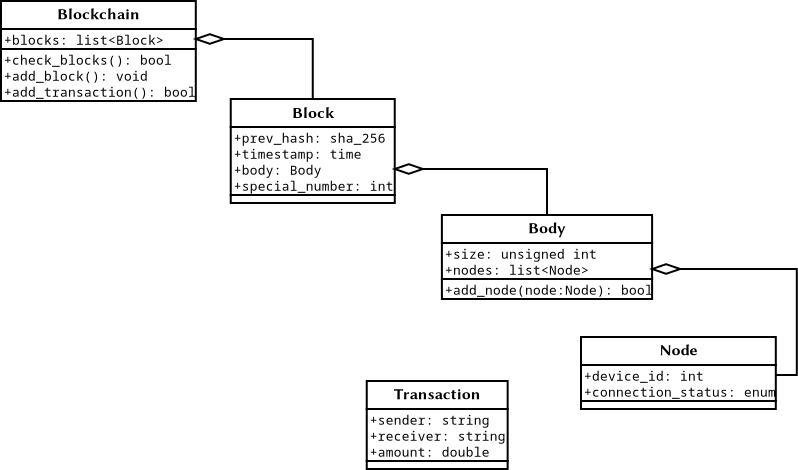
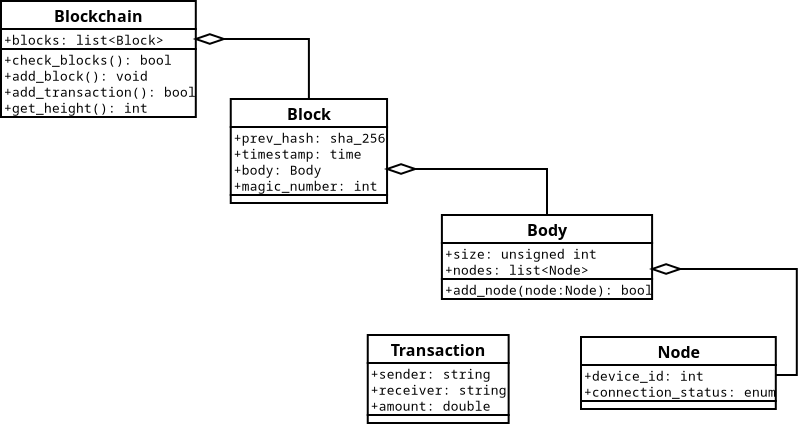
added block height and modified blockchain diagram

Changed region(s): [[0.5414, 0.4292, 1.0, 0.9811], [0.0, 0.0, 0.6917, 0.4906], [0.4511, 0.7665, 0.6617, 1.0]]

diff --git a/code/blockchain.py b/code/blockchain.py
@@ -12,7 +12,6 @@ BODY_SIZE = 5           # size of transactions in a body
 
 # TODO add API that exports all the nodes in separate blocks into one big list
 # TODO classes as separate files
-# TODO check blocks
 
 class Blockchain:
     def __init__(self):
@@ -46,6 +45,8 @@ class Blockchain:
             if block.get_hash().hexdigest() != self.blocks[i + 1].prev_hash or block.check_zeros(LEADING_ZEROS) == False:
                 return False
         return True
+    def get_height(self):
+        return len(self.blocks)
 
 class Body:
     def __init__(self):
@@ -115,6 +116,10 @@ def check_zeros(string, number_of_zeros):
 def api_blockchain():
     #app.logger.debug('BLOCKCHAIN' + str(blockchain.to_json()))
     return blockchain.to_json()
+
+@app.route('/api/blockchain/height')
+def api_blockchain_height():
+    return str(blockchain.get_height())
 
 # czy przy dodawaniu/usuwaniu nowego node klient ma czekac az blok zostanie
 # znaleziony? czy po prostu zaakceptowac blok i potem w tle sobie szukac hasha?
